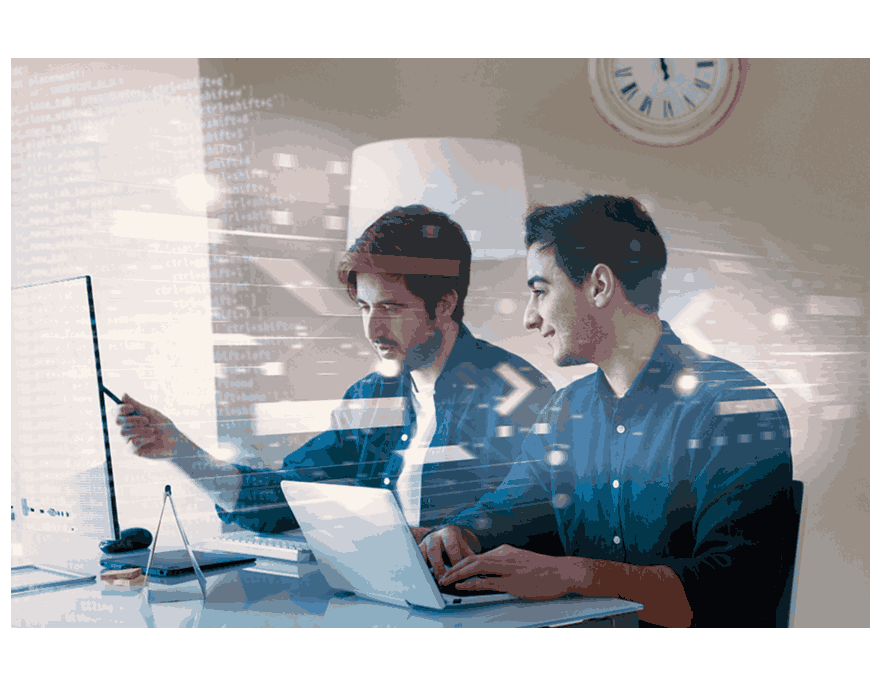
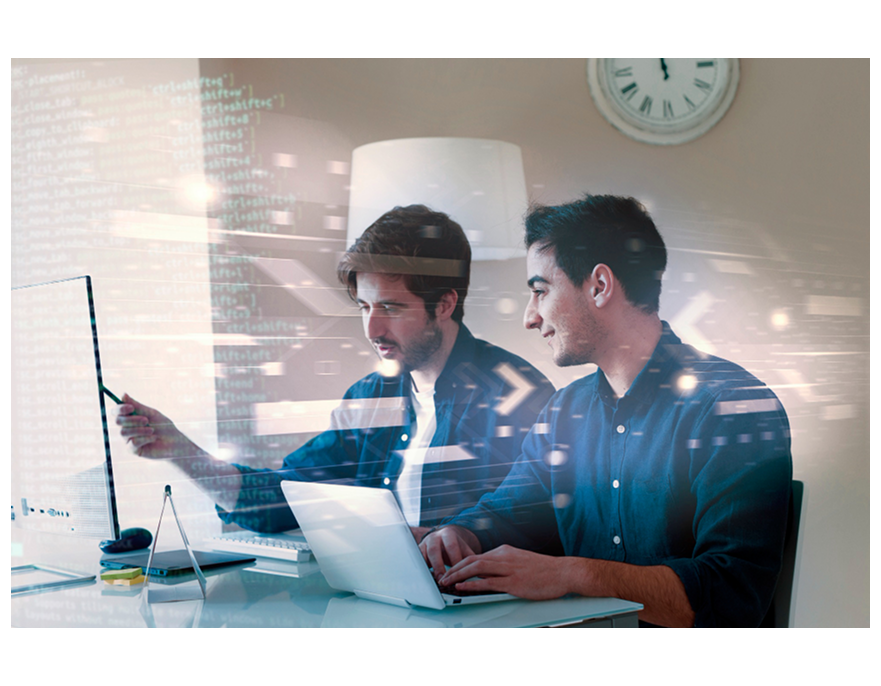
images-changed

diff --git a/src/components/ContactPage/popup.js b/src/components/ContactPage/popup.js
@@ -58,7 +58,7 @@ export default function ContactFormPopup() {
       <div className="bg-white rounded-lg w-full max-w-2xl p-6 relative overflow-y-auto max-h-[90vh]">
         <button
           onClick={() => setShowPopup(false)}
-          className="absolute top-2 right-2 text-gray-600 hover:text-red-600 text-lg font-bold"
+          className="absolute top-2 right-2 text-gray-600 hover:text-red-600 text-4xl font-bold"
         >
           ×
         </button>
@@ -67,16 +67,17 @@ export default function ContactFormPopup() {
           Get in Touch
         </h2>
 
-        <div className="flex items-center gap-x-4 text-sm mb-6">
-          <a href="tel:+447438191808" className="flex items-center text-gray-700 gap-2">
-            <FaPhoneSquareAlt className="text-green-600" />
-            +44-7438191808
-          </a>
-          <a href="mailto:contact@mitochonpixel.co.uk" className="flex items-center text-gray-700 gap-2">
-            <FaEnvelope className="text-red-600" />
-            contact@mitochonpixel.co.uk
-          </a>
-        </div>
+<div className="flex flex-col items-start gap-y-2 text-sm mb-6">
+  <a href="tel:+447438191808" className="flex items-center text-gray-700 gap-2">
+    <FaPhoneSquareAlt className="text-green-600" />
+    +44-7438191808
+  </a>
+  <a href="mailto:contact@mitochonpixel.co.uk" className="flex items-center text-gray-700 gap-2">
+    <FaEnvelope className="text-red-600" />
+    contact@mitochonpixel.co.uk
+  </a>
+</div>
+
 
         <form onSubmit={onSubmit} className="space-y-4">
           <div>

diff --git a/src/components/DigitalMarketing/DigitalMarketing.js b/src/components/DigitalMarketing/DigitalMarketing.js
@@ -89,15 +89,6 @@ export default function DigitalMarketing() {
                     </span>
                   </li>
                 </ul>
-                <p className="mt-8  text-justify app__text">
-                  Plenty of businesses hold back on digital marketing and
-                  branding, thinking they don’t have the time or budget to make
-                  an impact online. But in today’s fast-moving market, that
-                  mindset just won’t cut it. At Mitochon Pixel, we bring the
-                  digital branding know-how and tools needed to promote your
-                  business worldwide and stand shoulder to shoulder with top
-                  digital brands.{" "}
-                </p>
               </div>
             </div>
           </div>

diff --git a/src/components/Testimonials/Test.js b/src/components/Testimonials/Test.js
@@ -43,7 +43,7 @@ const Test = () => {
   }, [testimonials.length]);
 
   return (
-    <section className="py-24 sm:py-32 bg-[#FAF1F2]">
+    <section className="py-8 sm:py-8 bg-[#FAF1F2]">
       <div className="app__container grid grid-cols-1 md:grid-cols-2">
         {/* Left Side */}
         <div className="relative left-[5%] right-[5%] h-80">
@@ -62,7 +62,7 @@ const Test = () => {
         </div>
 
         {/* Right Side - Carousel */}
-        <div className="relative bg-white h-80 shadow-lg px-6 py-12 rounded-xl overflow-hidden">
+        <div className="relative bg-white h-80 shadow-lg px-6 py-8 rounded-xl overflow-hidden">
           {/* Background Quote */}
           <Image
             src={image.quote}

diff --git a/src/constant/Images/image.js b/src/constant/Images/image.js
@@ -56,7 +56,7 @@ import dm2 from "../../assets/new/dm2.png";
 import announcementIcon from "../../assets/new/announcement-icon.svg";
 import quote from "../../assets/new/quote.svg";
 import client from "../../assets/new/client.png";
-import digitalMarketing from "../../assets/new/services/dm.png";
+import digitalMarketing from "../../assets/new/services/dm.jpg";
 import ppc from "../../assets/new/services/ppc.png";
 import cro from "../../assets/new/services/cro.png";
 import smo from "../../assets/new/services/smo.png";

diff --git a/src/components/ContactPage/ContactForm.js b/src/components/ContactPage/ContactForm.js
@@ -49,8 +49,8 @@ export default function ContactForm({ heading, color }) {
 
   return (
     <section className={`${color}`}>
-      <div className="app__container grid grid-cols-1 md:grid-cols-2 gap-12 py-16 md:py-32">
-        <div className="my-auto">
+      <div className="app__container grid grid-cols-1 md:grid-cols-2 gap-12 py-8 md:py-8">
+        <div className="my-auto hidden md:block">
           <Image src={image.getInTouch} alt="contact Us" />
         </div>
         <form>

diff --git a/src/components/DigitalMarketing/FeaturedService.js b/src/components/DigitalMarketing/FeaturedService.js
@@ -4,7 +4,7 @@ import Image from 'next/image'
 const FeaturedService = () => {
   return (
     <section className="we-are-area h-screen flex items-center">
-    <div className="app__container grid grid-cols-1 md:grid-cols-2 gap-8 relative">
+    <div className="app__container grid grid-cols-1 md:grid-cols-2 gap-8 mb-64 relative">
         <div className="my-auto">
           <div className="we-are-content">
             <div className="section-title">

diff --git a/src/components/Home/WeAre/WeAre.js b/src/components/Home/WeAre/WeAre.js
@@ -8,7 +8,7 @@ import { motion } from "framer-motion";
 const Home = () => {
   return (
     <section className="relative w-full">
-      <div className="max-w-7xl mx-auto px-6 py-12">
+      <div className="max-w-7xl mx-auto px-6 py-8">
         <h2 className="primary-heading text-center font-extrabold headingsingle">
           OUR CLIENTS
         </h2>

diff --git a/src/components/DigitalMarketing/Marketing.js b/src/components/DigitalMarketing/Marketing.js
@@ -26,7 +26,7 @@ const items = {
 };
 const Marketing = () => {
   return (
-    <section className="app__feature py-6 md:py-32 bg-slate-50">
+    <section className="app__feature py-6 md:py-6  bg-slate-50">
       <div className="app__container">
         <div className="max-w-3xl mx-auto mb-16">
           <h2 className="primary-heading text-center">

diff --git a/src/components/Home/WeMake/WeMake.js b/src/components/Home/WeMake/WeMake.js
@@ -65,7 +65,7 @@ const items = {
 
 export default function WeMake() {
   return (
-    <div className="bg-slate-50 py-2 sm:py-12">
+    <div className="bg-slate-50 py-2 sm:py-2">
       <div className="app__container">
         <div className="mx-auto max-w-2xl lg:text-center">
           <p className="mt-2 primary-heading text-gray-900 text-center">

diff --git a/src/components/Home/CaseStudy/CaseStudy.js b/src/components/Home/CaseStudy/CaseStudy.js
@@ -93,7 +93,7 @@ const CaseStudy = () => {
 	}, [width, controls]);
 
 	return (
-		<section className="py-24 sm:py-32">
+		<section className="py-8 sm:py-8">
 			<div className="app__container grid grid-cols-1 md:grid-cols-2 gap-y-8">
 				<div className="my-auto">
 					<h1 className="primary-heading">

diff --git a/src/app/services/branding/page.js b/src/app/services/branding/page.js
@@ -12,7 +12,7 @@ export const metadata = {
   description: "Build a bold and memorable brand with Mitochon Pixel, where strategy meets creativity to give your UK business a standout identity. Enquire now.",
 }
 const sections = [
-  {
+  { 
     section: <DigitalMarketing/>
   },
   {
